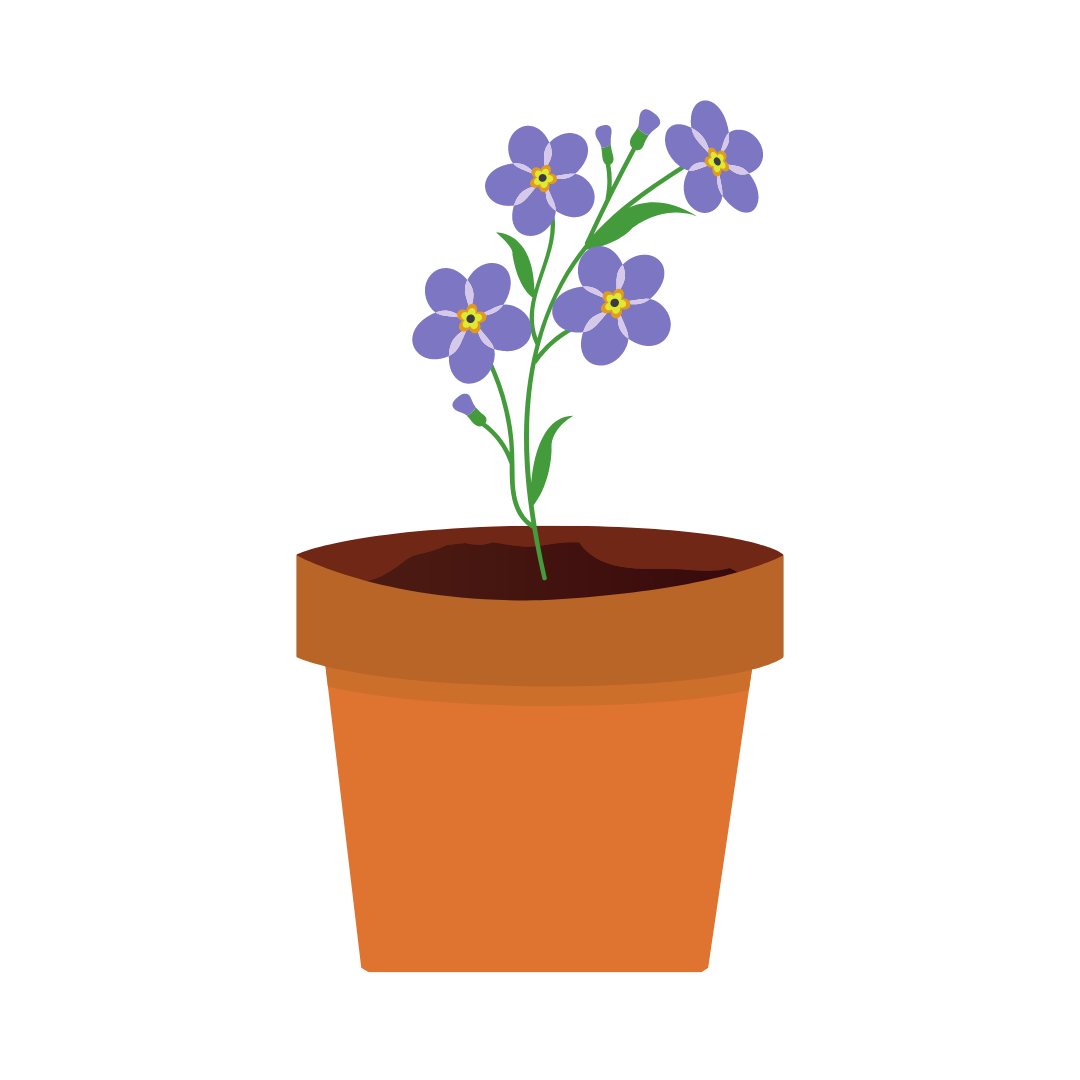
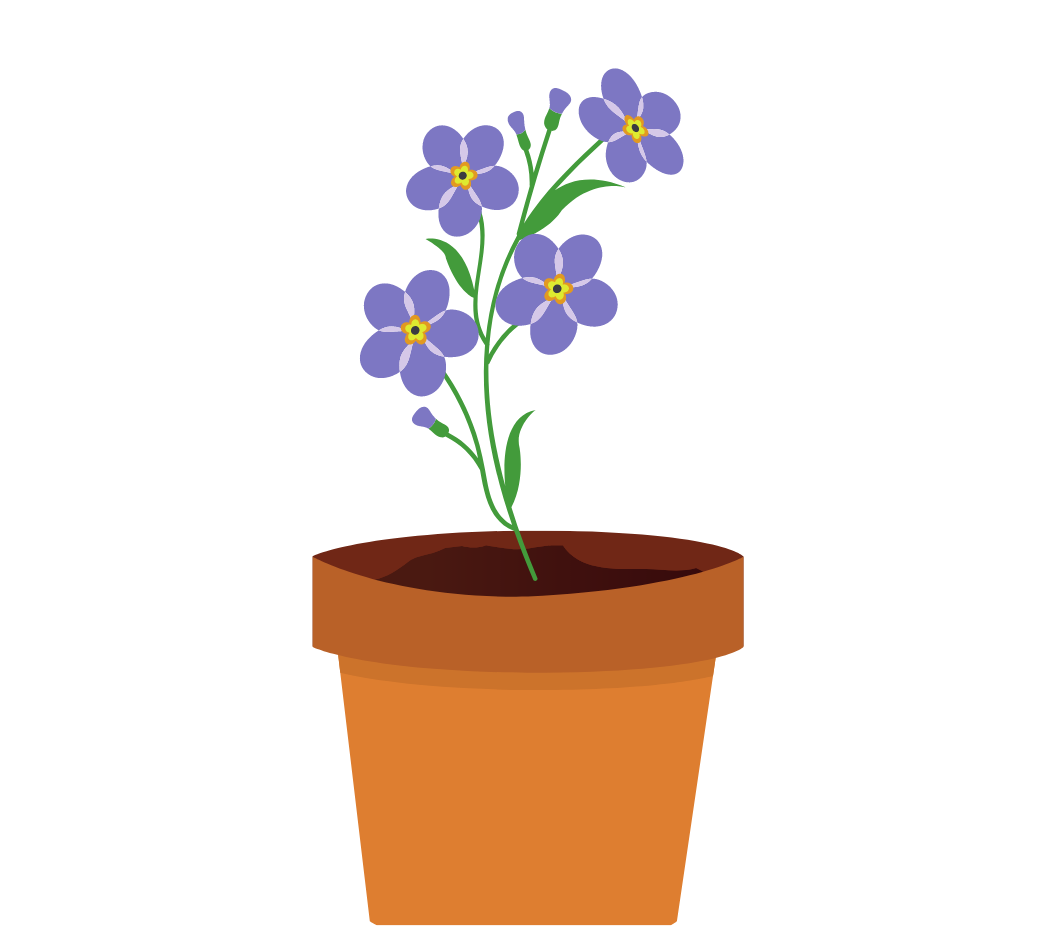
added images to Pots 1,2,3 with conditional hide/show based on age of plant

Changed region(s): [[0.2495, 0.0618, 0.7486, 0.8966], [0.3431, 0.8966, 0.655, 0.9893]]

diff --git a/src/Components/Pot2/Pot2.js b/src/Components/Pot2/Pot2.js
@@ -3,6 +3,11 @@ import { useState } from "react";
 import Container from "react-bootstrap/Container";
 import DropdownButton from "react-bootstrap/DropdownButton";
 import Dropdown from "react-bootstrap/Dropdown";
+import emptypot from "../../images/emptypot.png";
+import seedling from "../../images/seedling.png"
+import tulip from "../../images/tulip.png";
+import iris from "../../images/iris.png";
+import forgetmenot from "../../images/forgetmenot.png";
 
 const Pot2 = ({
   actionPoints,
@@ -82,13 +87,17 @@ const Pot2 = ({
     <Container>
       {/* Pot #2 */}
       <div>
+        <div style={{ display: pot2IsEmpty || pot2IsSeed ? "inline" : "none" }}><img className="plant-imgs" src={emptypot}/></div>
+        <div style={{ display: pot2IsSeedling === true ? "inline" : "none" }}><img className="plant-imgs" src={seedling}/></div>
+        <div style={{ display: pot2Type === "Iris" && pot2IsFullyGrown === true ? "inline" : "none" }}><img className="plant-imgs" src={iris}/></div>
+        <div style={{ display: pot2Type === "Tulip" && pot2IsFullyGrown === true ? "inline" : "none" }}><img className="plant-imgs" src={tulip}/></div>
+        <div style={{ display: pot2Type === "Forget-Me-Not" && pot2IsFullyGrown === true ? "inline" : "none" }}><img className="plant-imgs" src={forgetmenot}/></div>
         <p className="plant-name">
           Plant #2: {pot2Type}
           <span style={{ display: pot2IsEmpty === true ? "none" : "inline" }}>
-            , Age: {pot2Age}, Seed: {pot2IsSeed ? "True" : "False"}, Seedling:{" "}
-            {pot2IsSeedling ? "True" : "False"} Fully Grown:{" "}
-            {pot2IsFullyGrown ? "True" : "False"}
+            , Age: {pot2Age}
           </span>
+          <span style={{ display: pot2IsFullyGrown === true ? "inline" : "none"}}>Your {pot2Type} is fully grown!</span>
         </p>
       </div>
       <div

diff --git a/src/Components/Pot3/Pot3.js b/src/Components/Pot3/Pot3.js
@@ -3,6 +3,11 @@ import { useState } from "react";
 import Container from "react-bootstrap/Container";
 import DropdownButton from "react-bootstrap/DropdownButton";
 import Dropdown from "react-bootstrap/Dropdown";
+import emptypot from "../../images/emptypot.png";
+import seedling from "../../images/seedling.png"
+import tulip from "../../images/tulip.png";
+import iris from "../../images/iris.png";
+import forgetmenot from "../../images/forgetmenot.png";
 
 const Pot3 = ({
   actionPoints,
@@ -82,13 +87,17 @@ const Pot3 = ({
     <Container>
       {/* Pot #3 */}
       <div>
+        <div style={{ display: pot3IsEmpty || pot3IsSeed ? "inline" : "none" }}><img className="plant-imgs" src={emptypot}/></div>
+        <div style={{ display: pot3IsSeedling === true ? "inline" : "none" }}><img className="plant-imgs" src={seedling}/></div>
+        <div style={{ display: pot3Type === "Iris" && pot3IsFullyGrown === true ? "inline" : "none" }}><img className="plant-imgs" src={iris}/></div>
+        <div style={{ display: pot3Type === "Tulip" && pot3IsFullyGrown === true ? "inline" : "none" }}><img className="plant-imgs" src={tulip}/></div>
+        <div style={{ display: pot3Type === "Forget-Me-Not" && pot3IsFullyGrown === true ? "inline" : "none" }}><img className="plant-imgs" src={forgetmenot}/></div>
         <p className="plant-name">
           Plant #3: {pot3Type}
           <span style={{ display: pot3IsEmpty === true ? "none" : "inline" }}>
-            , Age: {pot3Age}, Seed: {pot3IsSeed ? "True" : "False"}, Seedling:{" "}
-            {pot3IsSeedling ? "True" : "False"} Fully Grown:{" "}
-            {pot3IsFullyGrown ? "True" : "False"}
+            , Age: {pot3Age}
           </span>
+          <span style={{ display: pot3IsFullyGrown === true ? "inline" : "none"}}>Your {pot3Type} is fully grown!</span>
         </p>
       </div>
       <div

diff --git a/src/Components/Pot1/Pot1.js b/src/Components/Pot1/Pot1.js
@@ -3,6 +3,11 @@ import { useState } from "react";
 import Container from "react-bootstrap/Container";
 import DropdownButton from "react-bootstrap/DropdownButton";
 import Dropdown from "react-bootstrap/Dropdown";
+import emptypot from "../../images/emptypot.png";
+import seedling from "../../images/seedling.png"
+import tulip from "../../images/tulip.png";
+import iris from "../../images/iris.png";
+import forgetmenot from "../../images/forgetmenot.png";
 
 const Pot1 = ({
   actionPoints,
@@ -82,13 +87,17 @@ const Pot1 = ({
     <Container>
       {/* Pot #1 */}
       <div>
+        <div style={{ display: pot1IsEmpty || pot1IsSeed ? "inline" : "none" }}><img className="plant-imgs" src={emptypot}/></div>
+        <div style={{ display: pot1IsSeedling === true ? "inline" : "none" }}><img className="plant-imgs" src={seedling}/></div>
+        <div style={{ display: pot1Type === "Iris" && pot1IsFullyGrown ? "inline" : "none" }}><img className="plant-imgs" src={iris}/></div>
+        <div style={{ display: pot1Type === "Tulip" && pot1IsFullyGrown ? "inline" : "none" }}><img className="plant-imgs" src={tulip}/></div>
+        <div style={{ display: pot1Type === "Forget-Me-Not" && pot1IsFullyGrown ? "inline" : "none" }}><img className="plant-imgs" src={forgetmenot}/></div>
         <p className="plant-name">
           Plant #1: {pot1Type}
           <span style={{ display: pot1IsEmpty === true ? "none" : "inline" }}>
-            , Age: {pot1Age}, Seed: {pot1IsSeed ? "True" : "False"}, Seedling:{" "}
-            {pot1IsSeedling ? "True" : "False"} Fully Grown:{" "}
-            {pot1IsFullyGrown ? "True" : "False"}
+            , Age: {pot1Age}
           </span>
+          <span style={{ display: pot1IsFullyGrown ? "inline" : "none"}}>Your {pot1Type} is fully grown!</span>
         </p>
       </div>
       <div

diff --git a/src/Components/Home/Home.css b/src/Components/Home/Home.css
@@ -55,25 +55,9 @@ button:focus {
 /* Pot Components */
 
 .pot-components {
-  display: grid;
-  grid-template-columns: 1fr;
-  grid-template-rows: repeat(3, 1fr);
+  display: flex;
+  flex-direction: column;
   padding-top: 3vh;
-}
-
-.pot1component {
-  grid-column: 1 / 2;
-  grid-row: 1 / 2;
-}
-
-.pot2component {
-  grid-column: 1 / 2;
-  grid-row: 2 / 3;
-}
-
-.pot3component {
-  grid-column: 1 / 2;
-  grid-row: 3 / 4;
 }
 
 .choose-a-seed {
@@ -82,6 +66,12 @@ button:focus {
 
 .plant-name {
   margin: 1vh;
+}
+
+/* Pot Images */
+
+.plant-imgs {
+  max-width: 15vh;
 }
 
 /*

diff --git a/src/Components/Grow/Grow.js b/src/Components/Grow/Grow.js
@@ -206,7 +206,7 @@ const Grow = () => {
         <p className="ap-day"><span className="key">Action Points:</span> {actionPoints}</p>
         <p className="ap-day"><span className="key">Day:</span> {day}</p>
       </div>
-      <div style={{ display: actionPoints === 0 && !globalShow ? "inline" : "none" }}>
+      <div className="new-day" style={{ display: actionPoints === 0 && !globalShow ? "inline" : "none" }}>
         <NewDay startNewDay={startNewDay} />
       </div>
       {/* *************** */}

diff --git a/src/Components/Farhana2Conversation/Farhana2Conversation.js b/src/Components/Farhana2Conversation/Farhana2Conversation.js
@@ -27,7 +27,7 @@ const Farhana2Conversation = ({
           setFarhanaDialogue((prevState) => prevState + 1);
         }}
       >
-        Talk 2
+        Talk
       </button></div>
       <div style={{ display: farhanaDialogue === 1 ? "inline" : "none" }}>
         <div className="player-dialogue-label fade-in-text">

diff --git a/src/Components/Home/Home.js b/src/Components/Home/Home.js
@@ -8,7 +8,6 @@ import Letters from "../Letters/Letters";
 import home from "../../images/home.png";
 import sprig from "../../images/sprig.png";
 import note from "../../images/note.png";
-import { Link } from "react-router-dom";
 
 const Home = ({
   actionPoints,
